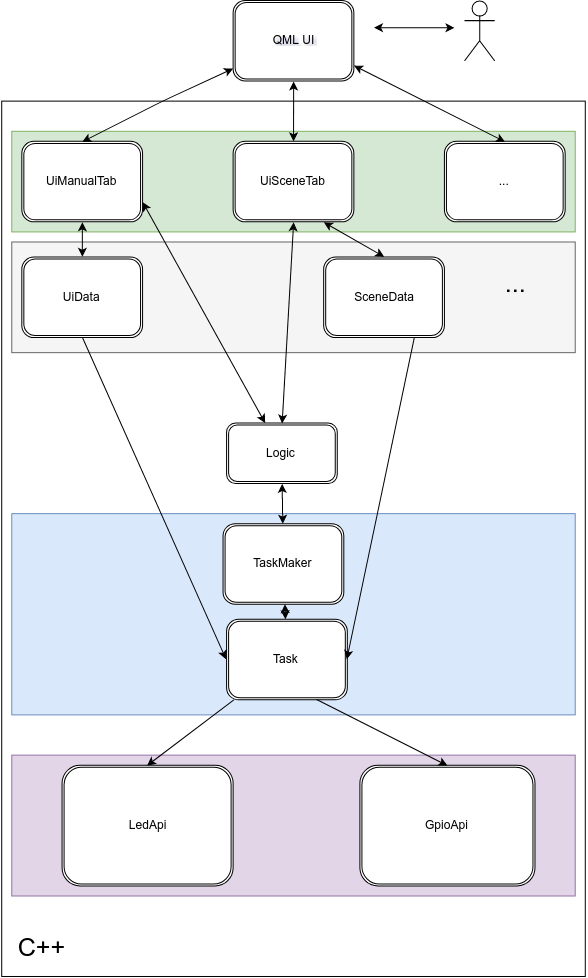
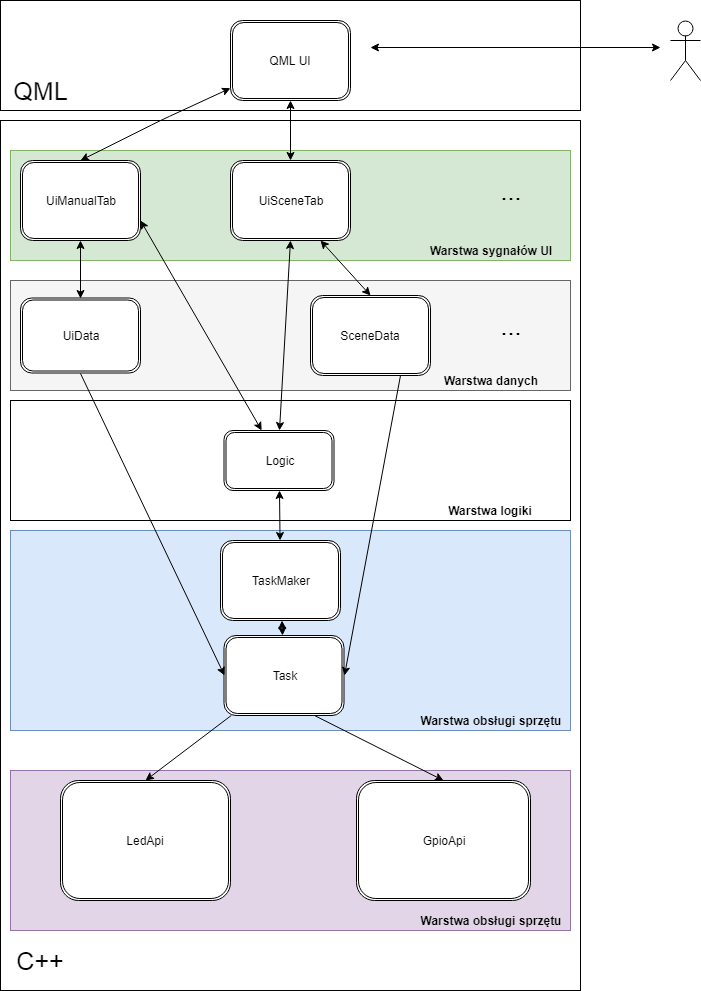
prawie koniec

diff --git a/Inzynierka/main.tex b/Inzynierka/main.tex
@@ -55,7 +55,7 @@
     Oświetlenie LED stanowi znaczącą część rynku elektroniki konsumenckiej i w ciągu kilkunastu lat wyparła prawie całkowicie z użytku codziennego wolframowe żarówki i lampy wyładowcze (potocznie zwane świetlówkami). Popularność technologii LED jest spowodowana głównie atrakcyjnymi cenami produktów i znacząco większą sprawnością elektryczną oraz co za tym idzie niższym zużyciem energii elektrycznej.
     
     \section{Cel i zakres pracy}
-    Celem pracy jest stworzenie opisu powstawania, dokumentacji użytkownika i dokumentacji technicznej nowoczesnego sterownika oświetlenia LED opartego na platformie mikrokontrolerowej.
+    Celem pracy jest stworzenie opisu powstawania, dokumentacji użytkownika i dokumentacji technicznej nowoczesnego sterownika oświetlenia LED opartego na platformie~ mikrokontrolerowej.
     
     Zakres pracy obejmuje opracowanie materiałów produkcyjnych, oprogramowania oraz fizycznego modelu. W szczególności zakres pracy obejmuje: 
     \begin{itemize}
@@ -86,18 +86,20 @@
     \section{Raspberry Pi}
     Raspberry Pi jest serią jednopłytkowych komputerów opartych na rdzeniach ARM. Pod nazwą Raspberry Pi kryje się również olbżymia społeczność rozwijająca oprogomowanie, tworząca biblioteki i materiały edukacyjne.
     W projekcie wykorzystano model \emph{Raspberry Pi Zero W V1.3} oparty na procesorze  \emph{Broadcom BCM2835 ARM11}. Moduł wyposażony jest m.in. w 512MB pamięci RAM, moduł WiFi, moduł Bluetooth, port miniHDMI. Z uwagi na  duże możliwości techniczne oraz niską cenę, modułu ten jest powszechnie wykorzystywany przy prototypowaniu urządzeń elektronicznych IoT.
+    \textcolor{red}{Linux}
     
     \section{Język C++}
     Język C++ powstawł w roku 1979 stworzony przez Bjarne Stroustrup'a jako rozszerzenie języka, od tego czasu C++ doczekał się kilku standardów i od 2011 roku co 3 lata wydawana jest jego nowa wersja. C++ osiągną olbrzymią popularność dzięki swojej uniwersalności. W komercjnych zastosowaniach przy tworzeniu oprogramowania na wbudowane systemy wbudowana często wypiera używanie czystego języka~C. C++ pozwala na tworzenie kodu zarówno nisko jak i wyskopoziomowego. Kod może być zarówno zorientowany obiektowo jak również czysto procedulany. 
-    enkapsulacja
+     \textcolor{red}{enkapsulacja
     polimorfizm
     biblioteki
-    boost
+    boost}
     
     
     \newpage
     \section{Biblioteka QT i QML}
     QT jest zestawem bibliotek, których głównym celem jest tworzenie interfejsów graficznych aplikacji komputerowych. Ponadto QT dostarcza wiele narzędzi programistycznych pomagających rozwijać oprogramowanie. Oprócz zastosowań komputerowych QT daje możliwości tworzenia aplikacji na urządzenia wbudowane i jest powszechnie używane przez takie firmy jak: LG, Mercedes-Benz.
+    \textcolor{red}{qml }
  
 %
 \chapter{Dokumentacja użytkownika}
@@ -106,10 +108,10 @@
     Moduł zasilany jest napięciem 12V i nie posiada zabezpieczenia przeciw odwrotnej polaryzacji zasilania. więc błędne podłączenie zasilacza może uszkodzić sterownik. \\*
     Maksymalna moc oświelenia podłączonego do wyjść wynosi:
     \begin{itemize}
-        \item sumarycznie dla wyjść sterownika paska led : 00W, czyli dla każdego kanału 00W,
-        \item dla każdego z wyjść przekaźnikowych : 100 W
+        \item sumarycznie dla wyjść sterownika paska led : \textbf{00}W, czyli dla każdego kanału \textbf{00}W,
+        \item dla każdego z wyjść przekaźnikowych : \textbf{100} W
     \end{itemize}
-    Instalator musi pamiętać, że podłączone obciążenie nie może przekraczać maksymalnej mocy zasilacza ponadto maksymalny prąd zasilacz powinien wynosić przynajmnej 750mA, więcej niż potrzebuje tego obicążenie, gdyż należy doliczyć zapotrzebowanie Raspberry Pi z wyświetlaczem. Podane 750mA jest wartością bezpieczną i nie znaczy to, że moduł pobiera w trakcie swojego działania taki prąd. \\*
+    Instalator musi pamiętać, że podłączone obciążenie nie może przekraczać maksymalnej mocy zasilacza ponadto maksymalny prąd zasilacz powinien wynosić przynajmnej 750mA, więcej niż potrzebuje tego obicążenie, gdyż należy doliczyć zapotrzebowanie Raspberry Pi z wyświetlaczem. Podane \textbf{750}mA jest wartością bezpieczną i nie znaczy to, że moduł pobiera w trakcie swojego działania taki prąd. \\*
     Zasilacz należy podłączyć do złącza \emph{J5}, wyjścia przkaźnikowe są oznaczone symbolami \emph{J3}, \emph{J4}, a sterownik paska ledowego \emph{J1J2}. Sposób podłączenie paska led jest oznaczony bezpośrednio na płytce. 
         \begin{figure}[H]
         \begin{center}
@@ -120,12 +122,85 @@
     \newpage
     
     \section{Opis interfejsu graficznego}
+    Interfejs graficzny zbudownany jest jako seria widoków, aby aktywować kolejny widok należy horyzontalnie przesunąć rysikiem po wyświetlaczu dotykowym, zgodnie z rządanym kierunkiem zmiany widoku. Takie rozwiązanie jest intuicyjne, gdyż dokładnie w takim sposób obsługuje się interfejsy graficzne w telefonach komórkowych (smartphonach), więc jest to zachowanie do którego przeciętny użytkownik jest przyzwyczajony.
+    Widokiem startowym jest widok kontroli ręcznej wyjść modułu.
+        \begin{figure}[H]
+        \begin{center}
+            \includegraphics[width=0.5\textwidth]{ui_live.jpg}
+            \caption{Zdjęcie ekranu z interfejsem graficznym}
+        \end{center}
+        \end{figure}
+    
+    Położenie aktywnego widoku jest prezentowane w dolnej części interfejsu. Ciemniejsza kropka oznacza aktywny region, pozostałe pokazują dostępne regiony.
+        \begin{figure}[H]
+        \begin{center}
+            \includegraphics[width=0.25\textwidth]{ui_pageind.jpg}
+            \caption{Wskaźnik widoków}
+        \end{center}
+        \end{figure}
     \newpage
     
-    \section{Konfiguracja funkcji}
+    \section{Opis funkcji}
         \subsection{Tworzenie scen}
-        \subsection{Tworzenie animacji}
-        \subsection{Tworzenie zdarzeń czasowych}
+        Tworzenie scen odbywa się przez zapisanie do wybranego slotu aktualnych ustawień sterownika. Sterownik udostępnia 9 slotów na sceny.
+        Każda ze scen przechowuje dane o ustawieniach wyjść paska ledowego oraz stanie wyjść przekaźnikowych. 
+
+            \begin{figure}[H]
+            \begin{center}
+                \includegraphics[width=0.45\textwidth]{ui_manualTab.jpg}
+                \caption{Widok ustawień manualnych}
+            \end{center}
+            \end{figure}
+            Tworzenie scen należy rozpocząć od ręcznego ustawienia rządanych stanów wyjść, poprzez przesuwanie rysikiem po ekranie i obserwację podłączonego paska ledowego. Aby zapisać obecne ustawienia w pamięci sterownika należy wybrać z pola Rys \ref{fig:box} miejsce w pamięci pod którym ma dostępna być scena. Jeśli w danej scenie występują zapisane dane to zostaną one nadpisane tą czynnością.
+            
+            \begin{figure}[!h]
+        	\centering
+        	\begin{minipage}[t]{3cm}
+        		\centering
+        		\includegraphics[scale=0.4]{ui_box.jpg}
+        		\caption{Pole wyboru scen} \label{fig:box} 
+        	\end{minipage}
+        	\hspace{3cm}
+        	\begin{minipage}[t]{5cm}
+        		\centering
+        		\includegraphics[scale=0.4]{ui_sceneTAB.jpg}
+        		\caption{Widok scen} \label{fig:scene} 
+        	\end{minipage}
+        \end{figure}
+            
+        Drugi widok (licząc od lewej strony) pozwala użytkownikowi wybrać z zapisanych scen. Jak można zaobserować na Rys \ref{fig:scene}, aktywne są wyłącznie przyciski, w których sceny zawierają dane.
+        \newpage 
+        
+        \subsection{Tworzenie zdarzeń aktywownych czasowych}
+        Funkcja ta pozwala na stworzenie dwóch alarmów, które o zadanym czasie będą aktywowały wybraną funkcję. 
+            \begin{figure}[H]
+            \begin{center}
+                \includegraphics[width=0.5\textwidth]{ui_time.jpg}
+                \caption{Widok alarmów czasowych}
+            \end{center}
+            \end{figure}
+            
+        W lewej części widoku należy wybrać godzinę aktywacji, w śrdokowej częsci wybiera się funkcję, która ma zostać wywołana. Przełącznik po prawej stronie aktywuje alarm i w po jego aktywacji, tak jak widać na dolnym alarmie, kontrolki stają się nieedytowalne. Alarmy mają priorytet w wyłoaniu nad innymi funkcjami, więc należy pamiętać o ich ustawieniu.
+        
+        \subsection{Aktywacja animacji}
+        Funkcja ta pozwoli włączyć animacje paska led, można wybrać z 10 gotowych, wcześniej zaprogramowanych. Obecna wersja oprogramowania nie pozwal użytkownikowi tworzyć własnych sekwencji kolorów. Użytkownik przy każdej sekwencji może wybrać szybkość jej wykonywanie w tym celu służy suwak znajdujący się na środku widoku.
+            \begin{figure}[H]
+            \begin{center}
+                \includegraphics[width=0.5\textwidth]{ui_animation.jpg}
+                \caption{Widok ustawień animacji}
+            \end{center}
+            \end{figure}
+        
+        \subsection{Sterowanie stanami}
+        Na ostatniej pozycji w przesuwalnym menu, znadjuje się widok służący włączaniu i wyłączaniu wyjść. Ma on najwyższy priorytet, więc w momencie aktywacji alarmu lub sterowania ręcznego, gdy wyjście będzie wyłączone w tym widoku, inne operacje będą ignorowane. W przypadku przłącznika stanu dla paska ledowego, gdy wszystkie jego ustawienia będą równe zero, a użytkownik użyje przełącznika, to będzie on nadal wyłączony. Przełącznik ten służy do wyłączania wybranej sceny lub animacji. Nie powoduje on jednak zatrzymania animacji.
+            \begin{figure}[H]
+            \begin{center}
+                \includegraphics[width=0.5\textwidth]{ui_global.jpg}
+                \caption{Widok przełączników wyjść} \label{fig:switches}
+            \end{center}
+            \end{figure}
+    
+    
     \newpage
 
 \chapter{Dokumentacja serwisowa}
@@ -177,7 +252,8 @@
                     \caption{Schemat trzykanałowego sterownika paska LED}
                 \end{center}
                 \end{figure}
-                Elementem wykonawczym są tranzystory MOSFET (ang. Metal-Oxide Semiconductor Field-Effect Transistor), oznaczone na schemacie symbolami \emph{Q1}, \emph{Q2}, \emph{Q3}. Po podaniu między złącza bramka(ang. gate) i źródło(ang. source), określonego w nocie katalogowej, napięcia, tranzysor zaczyna przewodzić między złączami dren(ang. drain)-źródło. Należy pamiętać, żę między drenem, a źródłem występuje rezystancja określona w nocie katalogowej symbolem Rds(on). Jest to ważny parametr, ponieważ ma on wpływ na ilość energii, która zostanie wytracona w formie ciepła, a co za tym idzie maksymalny prąd jaki tranzysor może przewodzić bez przegrzewania~się.
+                Elementem wykonawczym są tranzystory MOSFET (ang. Metal-Oxide Semiconductor Field-Effect Transistor), oznaczone na schemacie symbolami \emph{Q1}, \emph{Q2}, \emph{Q3}. Po podaniu między złącza bramka(ang. gate) i źródło(ang. source), określonego w nocie katalogowej, napięcia, tranzysor zaczyna przewodzić między złączami dren(ang. drain)-źródło. Należy pamiętać, żę między drenem, a źródłem występuje rezystancja określona w nocie katalogowej symbolem Rds(on). Jest to ważny parametr, ponieważ ma on wpływ na ilość energii, która zostanie wytracona w formie ciepła, a co za tym idzie maksymalny prąd jaki tranzysor może przewodzić bez przegrzewania~się. \\*
+                \textcolor{red}{wyprowadzenie maksymalnej mocy, wykres temperatury od obciążenia i wypełnienia, }
         
                 \newpage
         
@@ -203,8 +279,8 @@
         \begin{itemize}
             \item Napięcie wejściowe : 12V
             \item Napięcie wyjściowe : 5V
-            \item Częstotliwość      : Hz 
-            \item Wahania napięcia wyjściowego : Vpp 
+            \item Częstotliwość      :  \textcolor{red}{00}Hz 
+            \item Wahania napięcia wyjściowego :  \textcolor{red}{00}Vpp 
         \end{itemize}
                 
         \subsection{Elektronika dodatkowa}
@@ -240,7 +316,7 @@
         
         \subsection{Płytka drukowana}
             Po zakończonym etapie prototypowania poszczególnych partii, elementy te zostały połączone w jeden schemat, na podstawie którego zaprojektowano płytkę drukowaną (PCB). 
-            Płytka ma wymiary 90x62mm, jest dwustronna, dzięki temu udało się zmniejszyć docelowy jej rozmiar.
+            Płytka ma wymiary 90x62mm, jest dwustronna, dzięki temu udało się zmniejszyć jej docelowy rozmiar.
             
     \section{Instrukcja montażu}
     Montaż układu powinno rozpocząć się od wizualnego sprawdzenia poprawności wykonania płytki drukowanej, ważnym jest sprawdzenie czy wszystkie punkty lutownicze są poprawnie pokryte i czy ścieżki nie wyglądają na uszkodzone, np. w transporcie.
@@ -258,7 +334,7 @@
     \section{Sprawdzanie modułu}
             Płytka i opis znajdujący się na niej został zaprojektowany tak, aby w łatwy sposób można było sprawdzić poprawność działania modułu. 
             
-            \subsubsection{Sprawdzanie poprawności działania samego modułu wykonawczego}
+            \subsection{Sprawdzanie poprawności działania samego modułu wykonawczego}
             Dolna strona PCB zawiera dwa rodzaje oznaczeń, które służą do sprawdzenie poprawności działania elektroniki płytki:
             \begin{itemize}
                 \item oznaczaczenia \emph{G*} informujące do którego pinu mikroprosesora podłączone jest dany element modułu, ma to uławtić programowanie i sprawdzanie poprawności konfiguracji pryferiów,
@@ -271,14 +347,14 @@
                 \end{center}
                 \end{figure}
             Na płytce znajduje się, również oznaczenie mówiące o poprawnych wartościach między punktami kontrolnymi \emph{P1} - \emph{P4} oraz napięcia, które należy podać między masą a punktami \emph{P5} - \emph{P6}.
-            Sprawdzenie poprawności montażu elemtów prztwronicy napięcia, odbywa się przez pomiar napięcia między punktami P1 P2, napięcie to powinnow wynosić 5V z xxx procentową dokładnością.
-            Należy również sprawdzić wartość napięcia między punktami P3 P4, które powinno wynosić XXXXXX.
+            Sprawdzenie poprawności montażu elemtów prztwronicy napięcia, odbywa się przez pomiar napięcia między punktami P1 P2, napięcie to powinnow wynosić 5V z  \textcolor{red}{00} procentową dokładnością.
+            Należy również sprawdzić wartość napięcia między punktami P3 P4, które powinno wynosić  \textcolor{red}{0000}.
             W celu sprawdzenia sterownika paska LED należy podać 12V kolejno między masą, punktami P5.1, P5.2, P5.3 i mierzyć napięcie na odpowiadających wyjściach sterownika. Moduł działa poprawnie jeśli napięcie na wyjściu każdego z kanałów będzie równe 12V.
             Sprawdzeie wyjść przekaźnikowych odbywa się przez podnie 3.3V, z punktu P4, na punkty P6.1 i P6.2.
             Przekaźnik w momencie przełączania wydaje wyraźny dźwięk (kliknięcie), więc jego brak w chwili podłączenia napięcia oznacza niepoprawne działanie. Kolejnym etapem weryfikacji jest zmierzenie napięcia na wyjściach przekaźnikowych przy zwartych P6.1 lub P6.2 z P4, powinno ono być równe 12V.
             \\* Opisane metody testowania nie wymagają podłączenie Raspberry Pi, ale wymagają podłączenie zasilania 12V. 
             
-            \subsubsection{Sprawdzenie poprawności działania całości modułu}
+            \subsection{Sprawdzenie poprawności działania całości modułu}
                 \begin{figure}[H]
                 \begin{center}
                     \includegraphics[width=0.5\textwidth]{dip_zoom.jpg}
@@ -304,19 +380,79 @@
             \newpage
             
             \section{Dokumentacja oprogramowania}
-            
-            
             Kompletny zestaw wytworzonego oprogramowania modułu składa się z pięciu plików binarnych - jednego dla programu użytkownika, trzech dla każdego z trybów serwisowych, jednego służącego do konfiguracji peryferiów oraz ze skryptu Bash'owego wykorzystywanego przy starcie modułu.
             
                 \subsection{Interfejs graficzny}
-                \newpage
-                \subsection{Backend}
+                Interfejs graficzny jest w całości napisany w języku QML korzystając z biblioteki QtQuick w wersji 2.6, za paletę kolorów interfejsu odpowiada biblioteka Material 2.0, kształ i zachowania elementów widoku zaczerpnięto z biblioteki Controls 2.0. 
+                
+                \subsubsection{Przykład połączenia klasy C++ z QML}
+                Przykład demonstruje mechanizm łączenia klas C++ z kodem interfejsu graficznego w QML, z uwagi na zbyt dużą złożoność kodu w projekcie, posłużono się uproszczono wersję. Kod przykładu pokazuje obsługę przłącznika (Switch) takiego jak wykorzystany na Rys \ref{fig:switches}.
                     \begin{figure}[H]
                     \begin{center}
-                        \includegraphics[width=0.5\textwidth]{inz_diag.png}
-                        \caption{Schemat przepływu informacji w oprogramowaniu w trybie normalnego użytku}
+                        \includegraphics[width=0.65\textwidth]{code_class.jpg}
                     \end{center}
                     \end{figure}
+                    Klasa UiManualData ma reagować na zmianę statnu przełącznika w sposób asynchroniczny, aby to osiągnąć należy skorzystać z modelu sygnałów i slotów z QT. Tworząc własny typ uzyskuje się to przez dziedzicznie po typie QObject oraz definicję makra Q\_OBJECT w sekcji prywantej klasy. W lini 9 znajduje się definicja slotu, który będzie wywoływany z objektu QML.
+                    
+                    \begin{figure}[H]
+                    \begin{center}
+                        \includegraphics[width=0.65\textwidth]{code_main.jpg}
+                    \end{center}
+                    \end{figure}
+                    W celu udostępnienia klasy UiManualData w QML, należy ją zarejstrować, czynność ta odbywa się w linijce 8.
+                    
+                    \begin{figure}[H]
+                    \begin{center}
+                        \includegraphics[width=0.65\textwidth]{code_qml.jpg}
+                    \end{center}
+                    \end{figure}
+                    W pliku .qml należy zaimportować klasę, linia 1, trzeba pamiętać o numerze wersji z jakim zarejstrowało się dany typ. Następnie trzeba stworzyć obiekt tej klasy, linijki 4-6.
+                    Po wykonaniu tych czynności można korzystać z interfejsu klasy. W sygnale \emph{onToggle} (sygnał wywoływany przy zmianie statnu przełącznika) obiektu Switch, występuje wywołanie metody klasy UiManualData.
+                
+                \newpage
+                
+                
+                \subsection{Backend}
+                Zaplecze oprogramowania zaprojektowano w formie warstw funkcjonalności. Podział ten wiadać na Rys \ref{fig:layers}. Dokumentowanie oprogramowania w taki sposób definiuje jedynie logiczny podział kodu oraz przepływ informacji i nie deaktualzuje się przy dodawaiu nowych funkcjonalności.  
+                    \begin{figure}[H]
+                    \begin{center}
+                        \includegraphics[width=0.7\textwidth]{inz_diag.png}
+                        \caption{Schemat warstwowy oprogramowania trybu normalnego~użytku} \label{fig:layers}
+                    \end{center}
+                    \end{figure}
+                \subsubsection{Warstwa sygnałów UI}
+                Warstwa sygnałów UI jest bezpośrednim połączeniem z interfejsem graficznym QML, wykorzystywane są tutaj takie mechanizmy jak ten przedstawiony w sekcji 5.5.1. Warstwa ta jest całkowicie przezroczysta - nie przechowywane są tutaj rzadne dane oraz nie ma w niej zaimplementowanej logiki systemu. Sprawdzane jest jedynie czy dane przychodzące z UI są poprawne.
+                
+                \subsubsection{Warstwa danych}
+                Warstwa danych przechowuje dane wprowadzone przez użytkownika takie jak: konfiguracja scen i alarmów, obecny stan modułu, dane animacji.  
+                
+                \subsubsection{Warstwa logiki}
+                Warstwa logiki jest prostą maszyną stanów, która podejmuje decyzje na podstawie sygnału z interfejsu użytkownika jak i z informacji o obecnym stanie urządzenia. Na przykład jeśli użytkownik ręcznie uruchomi animację i w trakcie jej wykonywania zostanie aktywowany alarm, zostanie zlecone przerwanie wykonywania animacji i wywołana będzie zadana funkcja alarmu.
+                
+                \subsubsection{Warstwa obsługi zadań}
+                Warstwa obsługi zadań odpowiada za planowanie i wykonywanie czynności zadanych przez warstwę logiki, dane do poszczególnych zadań pobierane są bezpośrednio z warstwy danych.
+                
+                \subsubsection{Warstwa obsługi sprzętu}
+                Warstwa obsługi sprzętu jest jednie abstrakcją do sprzętu urządzenia, wykonuje zlecone polecenia, nie podejmuje, żadnych decyzji, może jedynie zgłosić błąd wykonywania czynności.
+                
+                    \newpage
+                \subsection{Obsługa sprzętu}
+                Do obsługi sprzętu zdecydowano się użyć bibliotekę WiringPi, która jest udostępniana na zasadach \emph{GNU LGPL v.3 }. Biblioteka jest napisana proceduralnie w języku C i stanowi jednynie warstwę abstrakcji do sprzętu mikorprocesora. Biblioteka wspiera używanie mikroprocesorów \emph{BCM2835}, \emph{BCM2836} oraz  \emph{BCM2837}. \\*
+                WiringPi implementuje m.in. : 
+                \begin{itemize}
+                    \item obsługę wejść i wyjść,
+                    \item obsługę przerwań,
+                    \item PWM,
+                    \item SPI,
+                    \item IIC,
+                    \item wielowątkowość.
+                \end{itemize}
+                W projekcie wykorzystano jedynie obsługę PWM.
+                
+                \subsection{Oprogramowanie dodatkowe}
+                \subsubsection{Logger}
+                \subsubsection{Pomiar obciążenia systemu}
+                
                 \newpage
                 
                 \subsection{Opis scenariuszy programowych}
@@ -327,7 +463,8 @@
                             \caption{Schemat blokowy startu modułu} \label{fig:starup}
                         \end{center}
                         \end{figure}
-                    \newpage
+                Przedstawiony schemat blokowy jest zaimplementowany w postaci skryptu bash'owego uruchamianego bezpośrednio po starcie systemu operacyjnego. Decyduje on o trybie uruchomienia urządzenia, włącza odpowieni plik binarny i konfiguruje peryferia sprzętowe procesora.
+                \newpage
                         
                     \subsubsection{Tryb serwisowy 1}
                         \begin{figure}[H]
@@ -336,16 +473,17 @@
                             \caption{Schemat blokowy trybu serwisowego 1} \label{fig:serT1}
                         \end{center}
                         \end{figure}
-                    
+                        Osobny program służacy do testowania połączenia Raspberry Pi z modułem wykonawczym, nie wykorzystuje kodu źródłowego aplikacji użytkownika, jest napisany w taki sposób aby zminimalizować możliwość wystąpienia błędu w czasie działania.
                         \newpage
                     
                     \subsubsection{Tryb serwisowy 2}
                         \begin{figure}[H]
                         \begin{center}
-                            \includegraphics[width=0.6\textwidth]{t2.png}
+                            \includegraphics[width=0.7\textwidth]{t2.png}
                             \caption{Schemat blokowy trybu serwisowego 2} \label{fig:serT2}
                         \end{center}
                         \end{figure}
+                        Program służy do całościowego testowania modułu (dokładniejszy opis testu w sekcji 5.4.2). Jest on osobnym programem, który korzysta z logiki i implementacji wykorzystanych w aplikacji użytkownika.
                         
                         \newpage
                         
@@ -356,10 +494,9 @@
                             \caption{Schemat blokowy trybu serwisowego 3} \label{fig:serT3}
                         \end{center}
                         \end{figure}
+                        Program ten swoje działanie rozpoczyna od odczytanie pliku startowego z poprzedniego uruchomienia aplikacji klienckiej, wyświetla on następnie takie dane jak czas poprzedniego działania, wystąpione błędy, oprócz tego program wyświela na ekranie dotykowym, dane o chwilowym obciążeniu systemu.
                     
                         \newpage
-                        
-                \subsection{Wykorzystane biblioteki}
 
 \chapter{Wnioski i uwagi}
 \thispagestyle{fancy}
